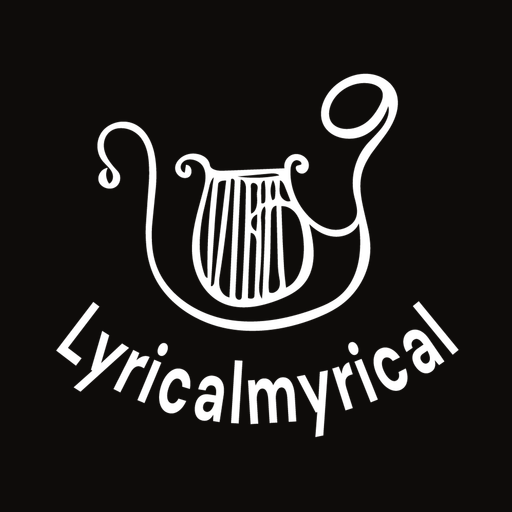
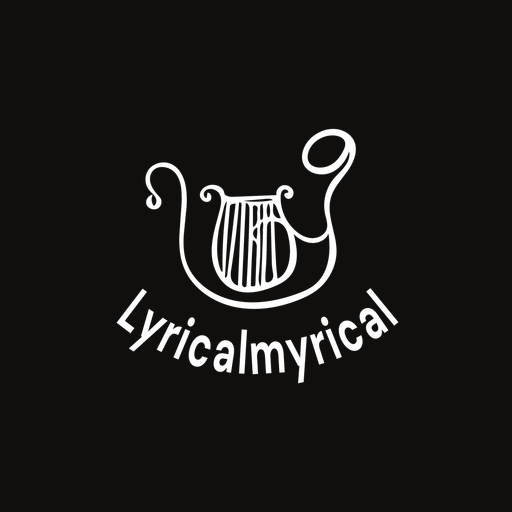
Prepare the phone app for a future Google Play release
Adds an android/ folder with the Trusted Web Activity settings
(twa-manifest.json), a Digital Asset Links template, a 1024x500 Play
feature graphic, and a plain-language guide to the steps that need the
owner (Play Console account, signing key, ownership file, listing and
forms). New scripts/android-assets.mjs (npm run android:assets) builds
the pictures from public/logo.png.

The web manifest gains a fixed id/scope, lang and categories, an opaque
512px icon, and a maskable icon whose logo now sits inside the safe
zone (the old one was cut off by circular masks) and is no longer also
offered as a plain "any" icon.

For you: The app's home-screen icon on Android no longer has its edges cut off, and a step-by-step guide to putting the app on Google Play is ready for when you want it.

Claude-Session: https://claude.ai/code/session_012C4i9FYSDnNjccGF6dPVu6

Changed region(s): [[0.0938, 0.125, 0.9062, 0.8438], [0.1875, 0.25, 0.25, 0.375]]

diff --git a/vite.config.js b/vite.config.js
@@ -174,6 +174,13 @@ export default defineConfig({
         name: 'Lyricalmyrical Inventory',
         short_name: 'Lyrical-Inv',
         description: 'Inventory management for Lyricalmyrical Books',
+        // id and scope pin the app's identity to this folder. The Android app
+        // (android/twa-manifest.json) opens this same address, and an installed
+        // copy is matched to its web app by id, so neither should change.
+        id: './',
+        scope: './',
+        lang: 'en',
+        categories: ['business', 'productivity'],
         theme_color: '#100F0D',
         background_color: '#262624',
         display: 'standalone',
@@ -195,10 +202,20 @@ export default defineConfig({
             type: 'image/png'
           },
           {
+            // Opaque, for places that show the icon as a plain square (the
+            // Android app's launcher icon on older phones, the Play listing).
+            src: 'android-icon-512x512.png',
+            sizes: '512x512',
+            type: 'image/png'
+          },
+          {
+            // Maskable only: "any maskable" let browsers use this padded
+            // version where the full-bleed one belongs. Regenerate both with
+            // npm run android:assets.
             src: 'maskable-icon-512x512.png',
             sizes: '512x512',
             type: 'image/png',
-            purpose: 'any maskable'
+            purpose: 'maskable'
           }
         ]
       }

diff --git a/android/README.md b/android/README.md
@@ -1,0 +1,163 @@
+# Putting the inventory app on Google Play
+
+This folder holds everything the Android version needs that lives in the code.
+The Android app is a thin shell around the web app you already use. It opens
+`https://lyricalmyricalbooks.github.io/lyrical-inventory/` full-screen, in
+Chrome's engine, with your icon on the home screen. That means:
+
+- Every change merged here shows up in the Android app on its next launch. You
+  only send Google a new version when the shell itself changes, which is rare.
+- Offline, sign-in, notifications and the phone layout all behave exactly as
+  they do today in Chrome.
+
+Google calls this kind of app a **Trusted Web Activity**. The tools below build
+it for you; nobody needs to write Android code.
+
+## Before you start: do you need Play at all?
+
+On any Android phone, opening the app in Chrome and choosing **Add to Home
+screen** (or **Install app**) already gives a real app icon, full-screen, with
+offline support. If the only people using the app are you and your team, that
+may be all you need, and it costs nothing.
+
+Play is worth it when you want people to find and install it from the store, or
+want it to update and appear like any other app on a work phone.
+
+## What is already done (in this repository)
+
+- **Icons Play accepts.** `public/android-icon-512x512.png` is the square app
+  icon for the listing. `public/maskable-icon-512x512.png` is the version
+  Android trims to a circle or rounded shape; the logo now sits safely inside
+  the trim line.
+- **Store banner.** `store/feature-graphic-1024x500.png` is the 1024 × 500
+  "feature graphic" Play shows across the top of your listing.
+- **App details.** The web app's install details now carry a fixed identity,
+  a category (Business, Productivity) and a language, which the Android
+  builder reads.
+- **Builder settings.** `twa-manifest.json` has every answer the builder would
+  otherwise ask: name, colours, icons, start address and the Android package
+  name.
+- **Ownership file template.** `assetlinks.example.json` is the file that
+  proves to Android that the app and the website belong to the same owner.
+
+To regenerate the pictures after a logo change: `npm run android:assets`.
+
+## The steps only you can do
+
+### 1. Make a Google Play developer account (about 1 to 3 days)
+
+1. Go to https://play.google.com/console and sign up. There is a one-time
+   US $25 fee.
+2. Choose **Organization** if Lyricalmyrical Books is a registered business,
+   otherwise **Personal**. Google checks your ID (and for organizations, a
+   D-U-N-S number), which can take a few days.
+3. **Important for personal accounts:** before a new personal account can
+   publish to everyone, Google requires a **closed test with at least 12
+   testers who stay opted in for 14 days in a row**. Line up 12 people (staff,
+   friends, other publishers) with Android phones early. Organization accounts
+   skip this.
+
+### 2. Decide where the ownership file lives
+
+Android only hides the browser's address bar if it finds the ownership file at
+`https://lyricalmyricalbooks.github.io/.well-known/assetlinks.json`. That is
+the very top of the address, which this repository does not control. Pick one:
+
+- **A tiny second repository (recommended).** Create a public GitHub repository
+  named exactly `lyricalmyricalbooks.github.io` containing only
+  `.well-known/assetlinks.json`, plus an empty file named `.nojekyll`. Free,
+  ten minutes, and the app's address does not change.
+- **Your own web address.** Point an address you own (for example
+  `app.lyricalmyrical.com`) at this site. Cleaner, but it needs DNS changes,
+  the address must be added to Firebase sign-in's allowed list, and everyone's
+  bookmarks move.
+- **Skip it.** The app still works, but a thin browser bar with the address
+  shows at the top.
+
+### 3. Build the app file
+
+The easiest route needs no software installed:
+
+1. Open https://www.pwabuilder.com, paste
+   `https://lyricalmyricalbooks.github.io/lyrical-inventory/` and press Start.
+2. Choose **Package for stores → Android → Generate package**, then
+   **Options**, and enter the values from `twa-manifest.json`:
+   - Package ID: `io.github.lyricalmyricalbooks.inventory`
+   - App name: `Lyricalmyrical Inventory`, launcher name: `Lyrical Inv`
+   - Version code `1`, version name `1.0.0`
+   - Signing key: **Create new**
+3. Download the zip. It contains the `.aab` file you upload to Play, an
+   `assetlinks.json`, and a **signing key with its passwords**.
+
+> **Keep the signing key and its passwords forever, somewhere safe** (a
+> password manager, not email, not this repository). Every future update must
+> be signed with it. Turning on **Play App Signing** in step 4 means Google
+> holds the real key and yours is only for uploads, so a lost upload key can
+> be reset, but it is still a hassle.
+
+The package ID becomes permanent the moment you upload. Change it now if you
+want something else, never later.
+
+For a developer: the same build runs from this folder with Google's Bubblewrap
+tool (`npm i -g @bubblewrap/cli`, then `bubblewrap update` and
+`bubblewrap build` inside `android/`). The generated project and keys are
+ignored by git on purpose.
+
+### 4. Create the app in Play Console
+
+1. **Create app** → name "Lyricalmyrical Inventory", type App, Free.
+2. **Test and release → Setup → App signing**: accept Play App Signing.
+3. Copy the **SHA-256 certificate fingerprint** shown under "App signing key
+   certificate". Put it into `assetlinks.json` (use `assetlinks.example.json`
+   as the shape) and publish that file where you chose in step 2. Then check
+   it with Google's tester:
+   https://developers.google.com/digital-asset-links/tools/generator
+4. **Internal testing → Create release**, upload the `.aab`, add yourself as a
+   tester, and install it on your phone from the link Play gives you. Internal
+   testing needs no review and is a good place to stay if only your team uses
+   the app.
+
+### 5. Fill in the store listing and the forms
+
+Play will not let you publish until these are done:
+
+- **App icon:** `public/android-icon-512x512.png`.
+- **Feature graphic:** `android/store/feature-graphic-1024x500.png`.
+- **Phone screenshots:** at least 2. Take them on your phone from the real app,
+  ideally Home, a book page and the shipping screen.
+- **Short description** (80 characters), for example: "Stock, sales,
+  consignment and shipping for Lyricalmyrical Books, even offline."
+- **Privacy policy link:** required, because the app signs people in with
+  Google. It must be a public web page. See the list below for what it has to
+  cover.
+- **App access:** the app is behind sign-in, so Google's reviewers need a way
+  in. Give them a test Google account with access, or explain that the app is
+  for staff only.
+- **Data safety form:** what the app collects and why.
+- **Content rating** questionnaire and **Target audience** (adults, not for
+  children).
+
+What the privacy policy and data safety form need to cover, from what the app
+does today. Check this list against how you actually use the app:
+
+- Google sign-in (name, email) through Firebase, used to log you in.
+- Inventory, sales, customer names, addresses and order details stored in
+  Google Firebase.
+- Shipping addresses sent to Canada Post, Chit Chats or Zonos when you buy a
+  label or quote.
+- Payment details looked up in Stripe and Big Cartel when you connect them.
+- Text sent to the AI assistant (OpenRouter) when you use it.
+- No ads, no selling of data, no tracking across other apps.
+
+### 6. Go live
+
+After internal testing works: run the closed test (personal accounts, 12
+testers for 14 days), then **Production → Create release** with the same
+`.aab`, and send for review. First reviews usually take a few days.
+
+## Later updates
+
+Most changes need nothing on Play: merge them here and the app picks them up.
+Only rebuild and upload when the shell changes (new icon, new name, Google's
+yearly minimum Android version rule). When you do, raise `appVersionCode` by 1
+in `twa-manifest.json` and sign with the same key.
